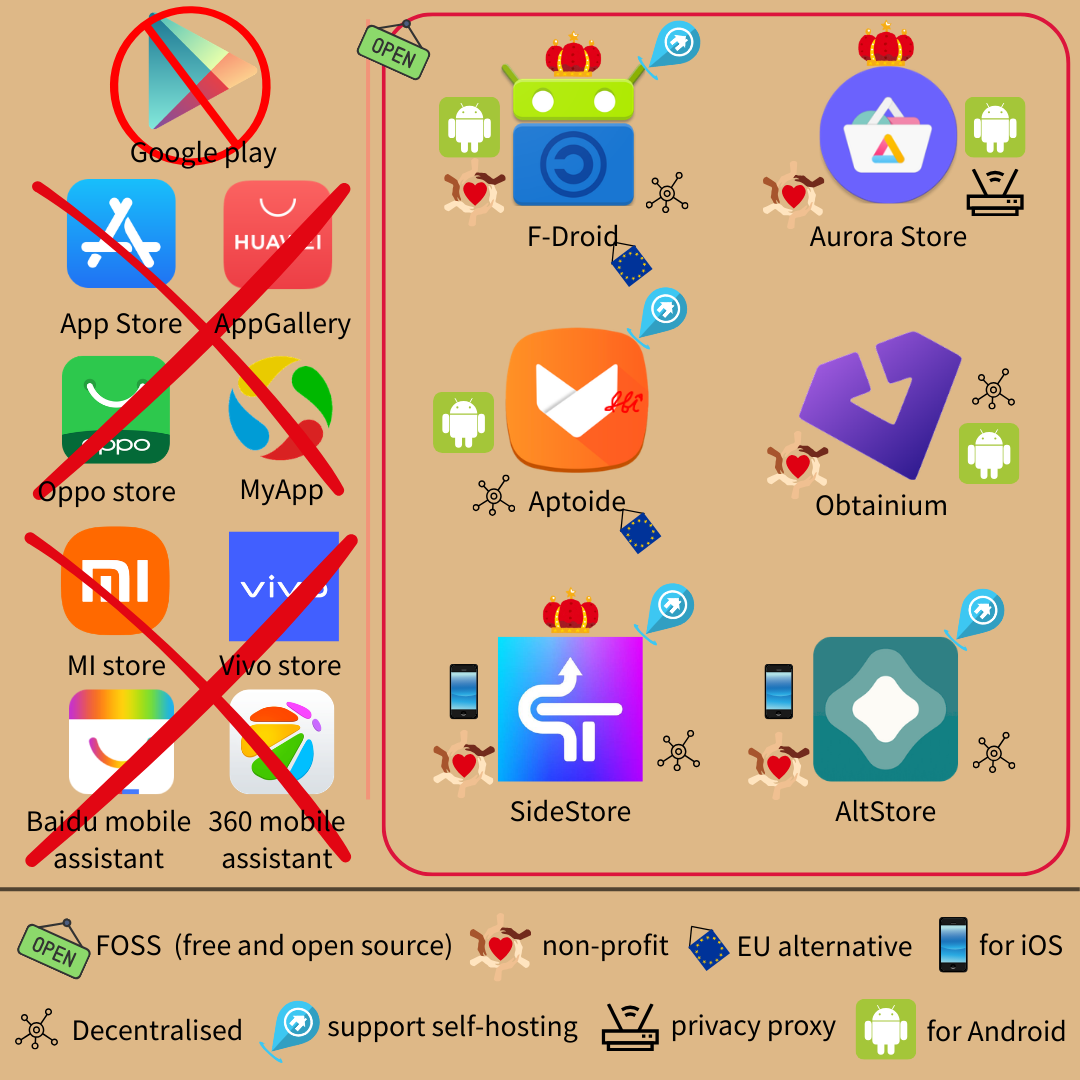
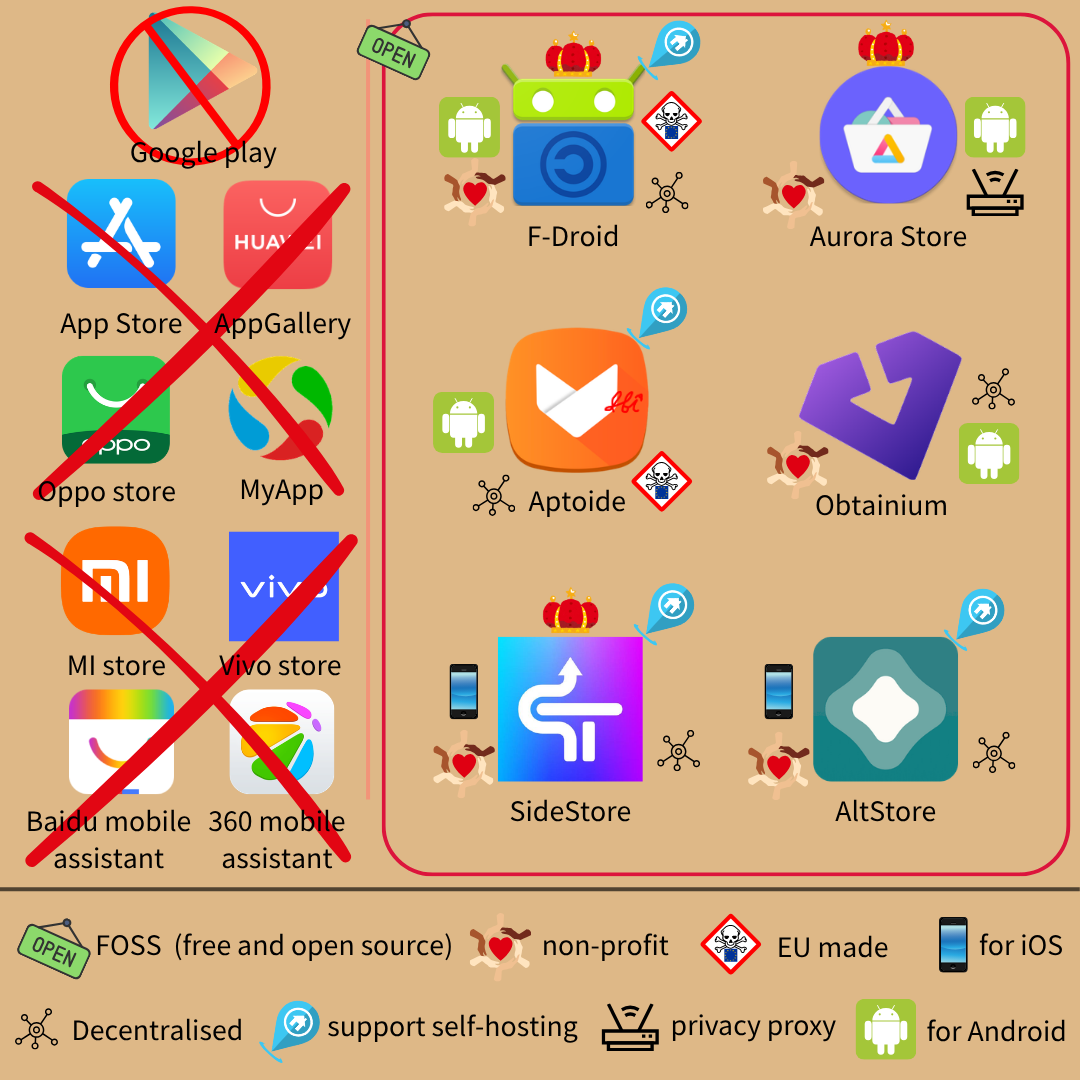
changed EU and Canada flags to warning due to their politic threat to privacy; added ironfox as a mobile browser for Android

diff --git a/deGoogle-browser.md b/deGoogle-browser.md
@@ -383,6 +383,17 @@ _# 也可串接 [Orbot app](https://orbot.app/en/)，連線至 Tor 網路_
 
 習慣 Chromium 生態系，一樣能取回隱私  
 
+#### [IronFox](https://ironfoxoss.org/)  
+移除遙測、增強網路指紋防護、社群驅動的[開源](https://gitlab.com/ironfox-oss/IronFox)專案  
+主打安全和隱私，指紋防護可細緻調整，非 Firefox 的全有全無  
+安全瀏覽模式透過 IronFox 代理伺服器訪問 Google，用最低限度隱私代價換取安全性  
+預設關閉時清除瀏覽記錄、快取、下載紀錄...，對 Firefox 做了超多[隱私強化](https://ironfoxoss.org/docs/features/)，可說是手機版的 LibreWolf  
+
+缺點：  
+* 預設**不給裝外掛**，想裝 uBlock Origin 須先手動開啟權限  
+   算防呆機制，預防使用者亂裝一堆東西  
+* 僅支援 Android  
+
 #### [Firefox Focus](https://www.firefox.com/en-US/browsers/mobile/focus/)  
 專注版 Firefox 是 Moziila 推出、給行動裝置的瀏覽器  
 沒預裝 uBlock Origin，但有內建較弱的追蹤器攔截器  
@@ -464,13 +475,13 @@ uBlock Origin 也手動安裝即可
 * 想要所有平台體驗近似，且只要一個瀏覽器 → [Brave](https://brave.com/) / [Waterfox](https://www.waterfox.net/) / [Cromite](https://github.com/uazo/cromite)  
 * 喜歡高度客製化  
    * 電腦版 → [Floorp](https://floorp.app/) / [Zen](https://zen-browser.app/)  
-   * 手機 [Waterfox](https://www.waterfox.net/) / [Firefox](https://www.firefox.com/) ([focus](https://www.firefox.com/browsers/mobile/focus/))  
+   * 手機 [Waterfox](https://www.waterfox.net/) / [Firefox](https://www.firefox.com/) ([focus](https://www.firefox.com/browsers/mobile/focus/)) / [IronFox](https://ironfoxoss.org/)  
 * 倡議者、人權記者 → 不用說，就是 [Tor](https://www.torproject.org/download/)  
 * 偏激隱私仔 (例如我)：  
    各瀏覽器有不同優勢，沒規定只能選一個  
    **許多開發者會裝 4、5 個瀏覽器**，區隔不同用途  
    例如平時習慣 [Floorp](https://floorp.app/)、預設開啟網頁用 [LibreWolf](https://librewolf.net/) / [Mullvad](https://mullvad.net/en/browser)、裝 [Brave](https://brave.com/) 使用 Chromium 功能、為非作歹高隱私需求活動用 [Tor](https://www.torproject.org/download/)...  
-   至於行動裝置，選擇較少更要精打細算 ([Brave](https://brave.com/) / [Waterfox](https://www.waterfox.net/) / [Tor](https://www.torproject.org/download/) / [Cromite](https://github.com/uazo/cromite))  
+   而行動裝置選擇較少，更要精打細算 ([Brave](https://brave.com/) / [Waterfox](https://www.waterfox.net/) / [Tor](https://www.torproject.org/download/) / [Cromite](https://github.com/uazo/cromite) / [IronFox](https://ironfoxoss.org/))  
 
 ---
 
